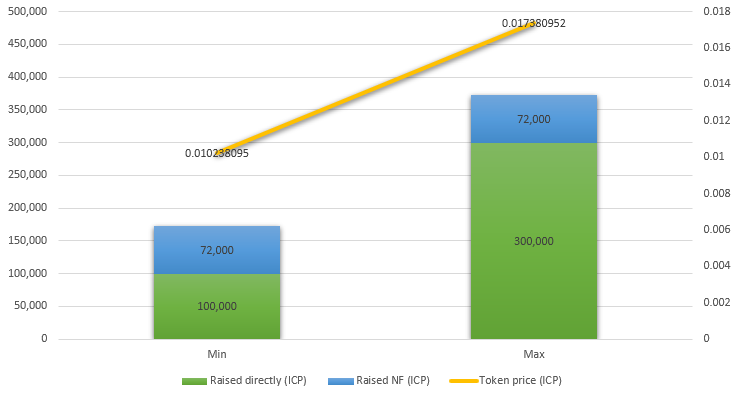
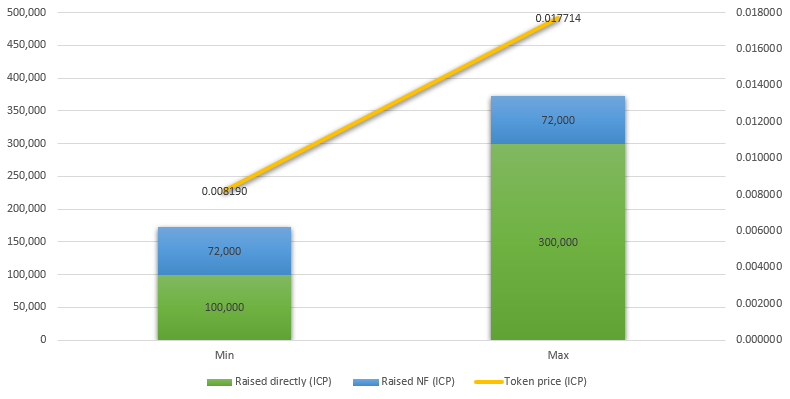
fix: values

diff --git a/whitepaper/tokenomics/allocation.md b/whitepaper/tokenomics/allocation.md
@@ -10,7 +10,7 @@ When the SNS DAO is successfully launched, the allocation of the total supply of
 
 ![match renevue distribution](./img/token-allocation.png)
 
-Note: Assuming 65,000 ICP as the Neuron Fund (NF) participation; however, this value can fluctuate daily and will only be known exactly when the swap ends.
+Note: Assuming 72,000 ICP as the Neuron Fund (NF) participation; however, this value can fluctuate daily and will only be known exactly when the swap ends.
 
 ### SNS Sale
 **21%** of the supply, or **21,000,000** (twenty-one million) tokens, will be made available for sale, to raise funds and decentralize the platform governance.  

diff --git a/whitepaper/tokenomics/price.md b/whitepaper/tokenomics/price.md
@@ -8,8 +8,8 @@ With 21% of the total supply for sale, the price range of each NAT token will be
 
 | Raised directly (ICP) | Raised NF (ICP) | Token price (ICP) | Token price (USD) |
 | --------------------: | --------------: | ----------------: | ----------------: |
-| 100,000 | 72,000 | 0.010 | $ 0.12 |
-| 300,000 | 72,000 | 0.017 | $ 0.20 |
+| 100,000 | 72,000 | 0.009 | $ 0.10 |
+| 300,000 | 72,000 | 0.018 | $ 0.21 |
 
 ![token price](./img/price.png)
 
